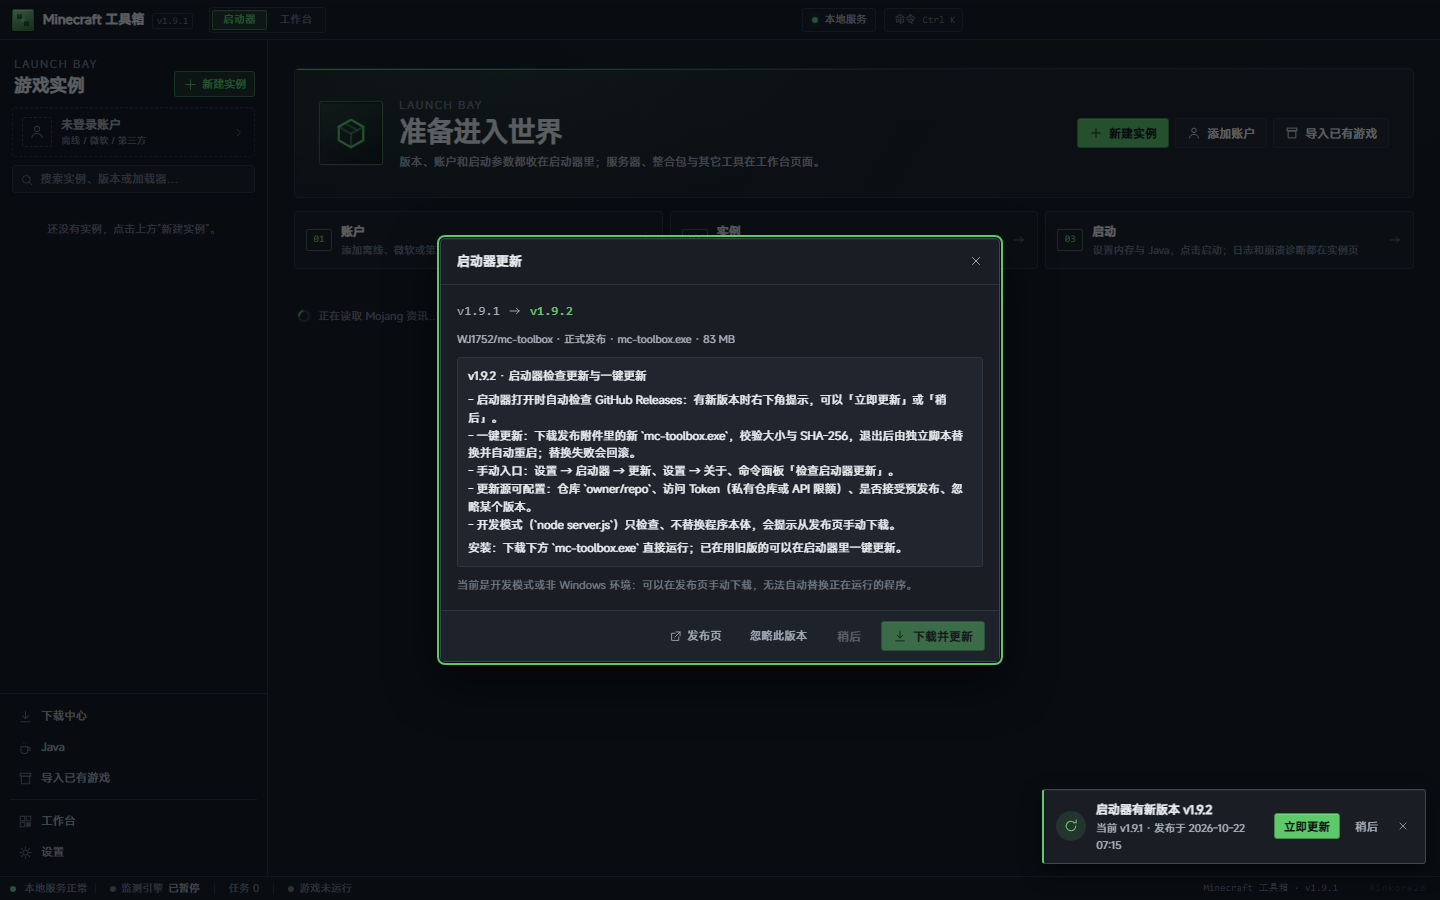
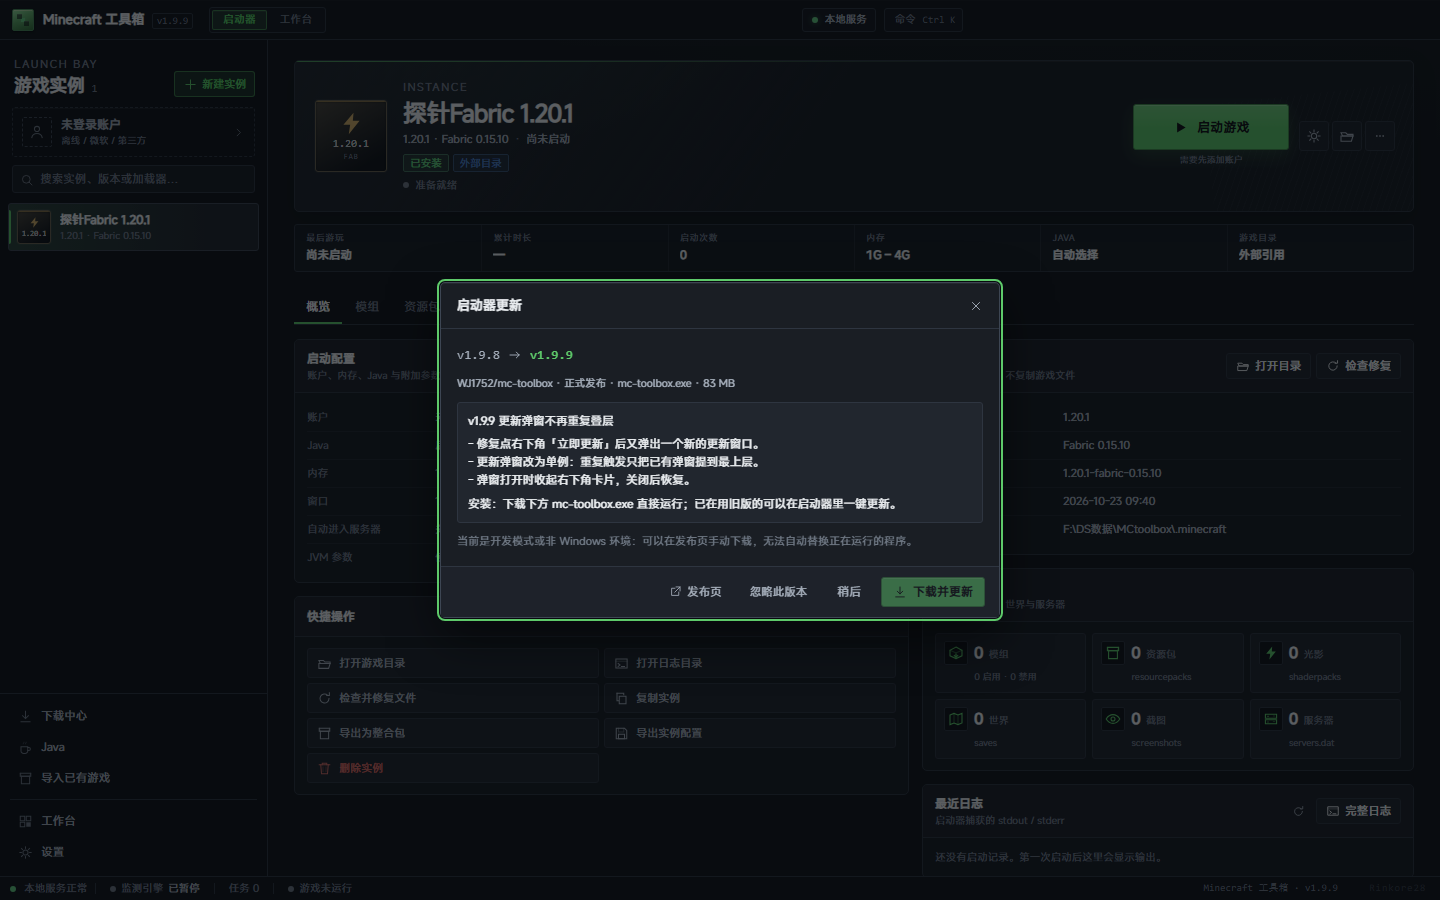
fix(v1.9.9): 更新弹窗不再重复叠层
- openUpdateDialog 改为单例：重复触发（卡片「立即更新」/ 设置页「检查更新」/ 命令面板）只 raiseModal 复用已有弹窗，不再叠第二份。
- 新增 modal.js raiseModal(handle)，用 WeakMap 把 openModal 返回的句柄映射到层并重排弹窗栈。
- 弹窗打开时收起右下角卡片、关闭后恢复（替换中 / 已忽略不恢复），避免 toastRoot(z400) 压住弹窗(z200) 底部按钮。
- 版本升至 1.9.9；UI 探针新增 3 项、全量 30/30；208 项测试通过；重拍 08-update.png。

diff --git a/public/js/launcher/update.js b/public/js/launcher/update.js
@@ -9,7 +9,7 @@
 import { h, fmtBytes } from '../core/dom.js'
 import { launcherApi } from './api.js'
 import { toast } from '../core/toast.js'
-import { openModal } from '../core/modal.js'
+import { openModal, raiseModal } from '../core/modal.js'
 import { icon } from '../ui/icons.js'
 import { btn, iconBtn } from '../ui/kit.js'
 import { progressBar, formatDate } from './ui.js'
@@ -18,6 +18,10 @@ let cardEl = null
 let lastInfo = null
 let checking = null
 let autoTimer = null
+// 同一时间只允许一个更新弹窗：右下角卡片、设置页「检查更新」、命令面板都会调
+// openUpdateDialog，重复调用只把已有弹窗提到前台，避免叠出第二份（关掉上面那份后
+// 下面那份又露出来，看起来像「弹窗关不掉」）。
+let activeDialog = null
 
 function toastRoot() {
   return document.getElementById('toastRoot') || document.body
@@ -40,6 +44,9 @@ export function closeAppWindow() {
 
 function renderCard(info) {
   cardEl?.remove()
+  cardEl = null
+  // 弹窗已经打开时不再挂卡片：卡片层级比弹窗高，会盖住弹窗底部的按钮。
+  if (activeDialog) return
   cardEl = h('div', { class: 'lp-update-card', role: 'status', 'aria-live': 'polite' })
   cardEl.append(
     h('div', { class: 'lp-update-badge' }, icon('refresh', { size: 16 })),
@@ -73,12 +80,23 @@ function notesBlock(text) {
 
 /**
  * 打开更新弹窗。下载 / 替换 / 重启都在弹窗内完成。
+ * 同一时间只保留一个弹窗：重复调用只把已有的提到最上层。
  * @param {object} info check 接口返回的对象
  */
 export function openUpdateDialog(info) {
   if (!info?.updateAvailable) {
     toast(info?.latest ? `已是最新版本 v${info.current}` : '还没有可用发布', 'ok')
     return null
+  }
+
+  // 右下角卡片的「立即更新」和弹窗里的「下载并更新」都可能再次触发这里。
+  // 已开着就直接复用，否则会叠出第二份弹窗（关掉上面那份下面又露出来）。
+  if (activeDialog) {
+    if (raiseModal(activeDialog.modal)) {
+      hideCard()
+      return activeDialog.modal
+    }
+    activeDialog = null
   }
 
   const session = { alive: true }
@@ -88,7 +106,7 @@ export function openUpdateDialog(info) {
   const errorEl = h('div', { class: 'lp-update-error', hidden: true })
 
   let modal = null
-  const ui = { progress, progressWrap, status, errorEl, startBtn: null, laterBtn: null, skipBtn: null, session }
+  const ui = { progress, progressWrap, status, errorEl, startBtn: null, laterBtn: null, skipBtn: null, session, applying: false }
 
   ui.startBtn = btn('下载并更新', {
     variant: 'primary',
@@ -140,8 +158,17 @@ export function openUpdateDialog(info) {
       errorEl
     ),
     buttons: [releaseBtn, ui.skipBtn, ui.laterBtn, ui.startBtn],
-    onClose: () => { session.alive = false }
+    onClose: () => {
+      session.alive = false
+      if (activeDialog?.modal === modal) activeDialog = null
+      // 弹窗关掉后把右下角卡片放回来（正在替换/已忽略时不再打扰）。
+      if (!ui.applying && !info.skipped) renderCard(info)
+    }
   })
+  activeDialog = { modal, ui, info }
+  // 卡片在 toastRoot（z-index 400）里，会盖在弹窗（z-index 200）的底部按钮上，
+  // 看起来像「弹窗里的按钮」，点它其实又开了一次弹窗。弹窗打开时先收起卡片。
+  hideCard()
 
   if (!info.canApply) {
     // 只禁用「下载并更新」；稍后 / 忽略 / 发布页仍要让用户能正常退出。
@@ -229,6 +256,7 @@ async function applyNow(ui) {
   try {
     const res = await launcherApi.updateApply()
     if (!res?.restarting) throw new Error('启动替换脚本失败')
+    ui.applying = true
     ui.progressWrap.hidden = true
     ui.status.textContent = '更新完成，启动器正在重启…'
     setTimeout(closeAppWindow, 1500)

diff --git a/src/server/integrity.gen.js b/src/server/integrity.gen.js
@@ -22,7 +22,7 @@ export const SHELL_INTEGRITY = {
[8 lines of base64/hex data omitted]
@@ -39,7 +39,7 @@ export const SHELL_INTEGRITY = {
[8 lines of base64/hex data omitted]

diff --git a/public/js/core/modal.js b/public/js/core/modal.js
@@ -6,6 +6,8 @@ import { icon } from '../ui/icons.js'
 // closing only unwinds one level.
 const root = () => document.getElementById('modalRoot')
 const stack = []
+// api 句柄 → layer：让 raiseModal 能把已打开的弹窗重新提到最上层，而不是再开一层。
+const handles = new WeakMap()
 let lastFocus = null
 
 function topLayer() {
@@ -101,6 +103,7 @@ export function openModal(opts = {}) {
     panel,
     setTitle(t) { title.textContent = t }
   }
+  handles.set(api, layer)
 
   for (const b of opts.buttons || []) {
     if (b && b.nodeType === 1) {
@@ -137,6 +140,26 @@ export function closeTopModal() {
     return true
   }
   return false
+}
+
+/**
+ * 把一个仍然打开的弹窗重新提到最上层（不新建层）。
+ * 用于「同一个弹窗被第二次触发」的场景：调用方应复用原弹窗，而不是叠出第二份。
+ * @returns {boolean} 句柄已失效（已关闭 / 不是本模块创建的）时返回 false
+ */
+export function raiseModal(handle) {
+  const layer = handle ? handles.get(handle) : null
+  if (!layer || layer.closed) return false
+  const idx = stack.indexOf(layer)
+  if (idx < 0) return false
+  if (idx !== stack.length - 1) {
+    stack.splice(idx, 1)
+    stack.push(layer)
+    for (const item of stack) item.panel.hidden = item !== layer
+  }
+  assignLegacyIds(layer)
+  requestAnimationFrame(() => layer.panel.focus?.({ preventScroll: true }))
+  return true
 }
 
 export function closeAllModals() {

diff --git a/src/server/asset-version.gen.js b/src/server/asset-version.gen.js
@@ -1,2 +1,2 @@
 // 由 build.mjs 自动生成：public/ 内容指纹（请勿手改；dev 模式不参与资源解压）
-export const ASSET_VERSION = "pub-4333a908fb810c62"
+export const ASSET_VERSION = "pub-515f1c0ddf41b060"

diff --git a/src/server/build-meta.js b/src/server/build-meta.js
@@ -1,3 +1,3 @@
 // 构建时写入的发布元数据；开发模式也保留作者归属信息。
 export const AUTHOR = 'Rinkore28'
-export const PRODUCT_VERSION = '1.9.8'
+export const PRODUCT_VERSION = '1.9.9'

diff --git a/README.md b/README.md
@@ -1,5 +1,12 @@
 # Minecraft 工具箱
 
+### v1.9.9 更新弹窗不再重复叠层
+
+- 修复「弹出更新窗口后，点右下角卡片上的『立即更新』又弹出一个新的更新窗口」：右下角提示卡片挂在 `toastRoot`（`z-index: 400`）里，层级高于更新弹窗（`z-index: 200`），点它就会再调一次 `openUpdateDialog`，于是叠出第二份弹窗；关掉上面那份，下面那份又露出来，看起来像「弹窗关不掉」。现在 `openUpdateDialog` 同一时间只保留一个弹窗，重复触发只把已有弹窗提到最上层（`raiseModal`），不再新建。
+- 弹窗打开时收起右下角卡片，关闭后再放回来（正在替换程序或已选择「忽略此版本」时不恢复）。卡片原来会盖住弹窗右下角，现在不会再出现「分不清哪个是弹窗按钮」的情况。
+- 「稍后 / 忽略此版本 / 关闭窗口」的行为不变；下载进度轮询、替换脚本与自动重启逻辑未改动。
+- 回归与验证：`node --test tests/*.test.mjs` 208 项通过；`tools/launcher-ui-smoke.mjs` 30/30（新增 3 项：更新弹窗只开一层、弹窗打开时收起卡片、关闭后不残留且卡片恢复）。
+
 ### v1.9.8 已运行实例接管、多开与模组真实 modid
 
 - 启动器启动/轮询时扫描本机 `java.exe` / `javaw.exe`，按命令行里的 `--gameDir` 精确匹配已添加实例；启动器重启后内存 session 丢失，仍能显示运行中、PID 与已运行时长，不再把正在玩的实例当成未启动。命令行（可能含 `--accessToken`）只在内存中用于匹配，不返回前端。
